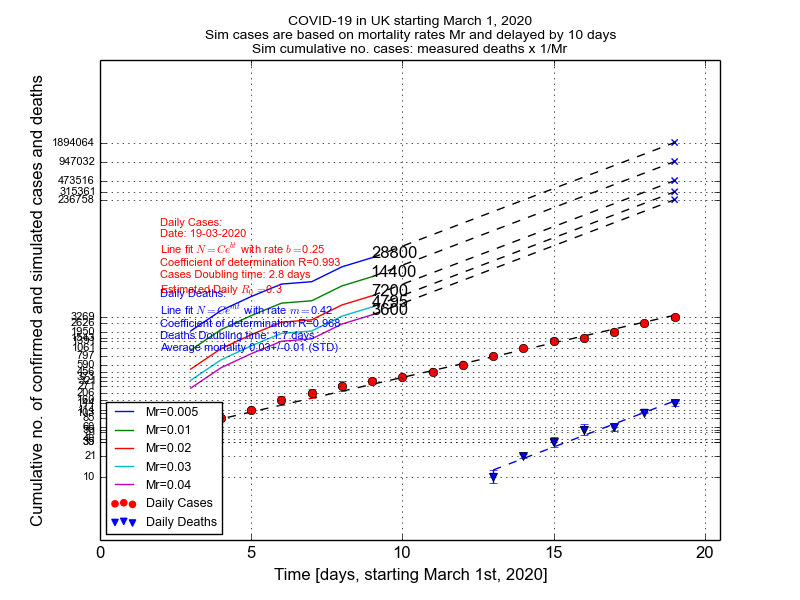
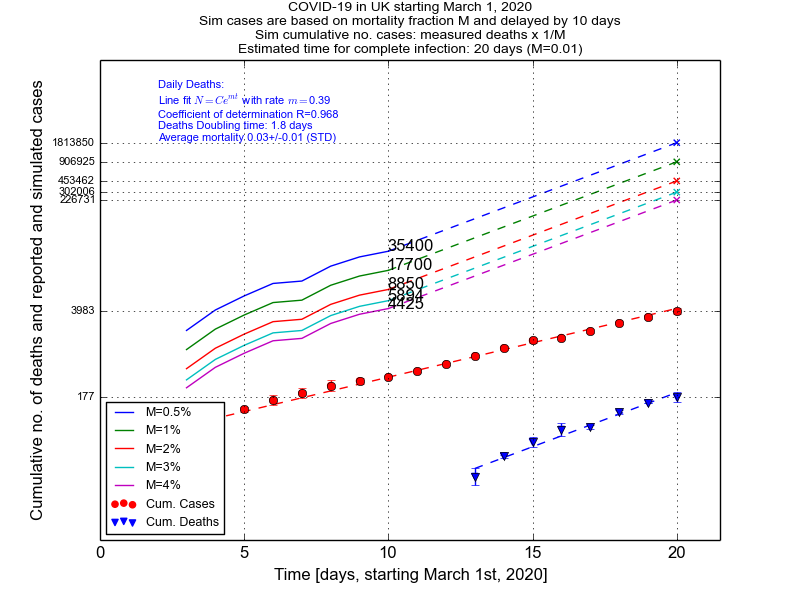
cleaned up the sims bit and added today data for UK

diff --git a/cov_lin_models.py b/cov_lin_models.py
@@ -281,6 +281,10 @@ def plot_official_uk_data(download):
     y_all_real.extend(y_deaths_real)
     y_all_real.extend(y_data_real)
     y_all = np.log(y_all_real)
+    last_tick_real = []
+    last_tick_real.append(y_deaths_real[-1])
+    last_tick_real.append(y_data_real[-1])
+    last_tick = np.log(last_tick_real)
 
     # all in one for sims
     y_sim_real = []
@@ -330,6 +334,8 @@ def plot_official_uk_data(download):
     sim_y_2_f = sim_y_2_real[-1] * np.exp(10. * slope_d)
     sim_y_3_f = sim_y_3_real[-1] * np.exp(10. * slope_d)
     sim_y_4_f = sim_y_4_real[-1] * np.exp(10. * slope_d)
+    # estimate time for 65M
+    full_time = (np.log(65 * 1e6) - np.log(sim_y_1_real[-1])) / slope_d
 
     # plot parameters: deaths
     plot_text_d = get_deaths_plot_text(
@@ -341,7 +347,7 @@ def plot_official_uk_data(download):
     # plotting cases
     plt.scatter(x_data, y_data, color='r',
                 label="Daily Cases")
-    plt.plot(x_data, poly_x, '--k')
+    plt.plot(x_data, poly_x, '--r')
     plt.scatter(x_deaths, y_deaths, marker='v',
                 color='b', label="Daily Deaths")
     plt.plot(x_deaths, poly_x_d, '--b')
@@ -361,46 +367,47 @@ def plot_official_uk_data(download):
 
     # plot simulated cases
     plt.scatter(x_data, y_data, color='r',
-                label="Daily Cases")
-    plt.plot(x_data, poly_x, '--k')
+                label="Cum. Cases")
+    plt.plot(x_data, poly_x, '--r')
     plt.scatter(x_deaths, y_deaths, marker='v',
-                color='b', label="Daily Deaths")
-    plt.scatter(x_deaths[-1], np.log(sim_y_0_f), marker='x')
-    plt.scatter(x_deaths[-1], np.log(sim_y_1_f), marker='x')
-    plt.scatter(x_deaths[-1], np.log(sim_y_2_f), marker='x')
-    plt.scatter(x_deaths[-1], np.log(sim_y_3_f), marker='x')
-    plt.scatter(x_deaths[-1], np.log(sim_y_4_f), marker='x')
-    plt.plot([list(np.array(x_deaths) - 10.)[-1], x_deaths[-1]], [sim_y_0[-1], np.log(sim_y_0_f)], '--k')
-    plt.plot([list(np.array(x_deaths) - 10.)[-1], x_deaths[-1]], [sim_y_1[-1], np.log(sim_y_1_f)], '--k')
-    plt.plot([list(np.array(x_deaths) - 10.)[-1], x_deaths[-1]], [sim_y_2[-1], np.log(sim_y_2_f)], '--k')
-    plt.plot([list(np.array(x_deaths) - 10.)[-1], x_deaths[-1]], [sim_y_3[-1], np.log(sim_y_3_f)], '--k')
-    plt.plot([list(np.array(x_deaths) - 10.)[-1], x_deaths[-1]], [sim_y_4[-1], np.log(sim_y_4_f)], '--k')
+                color='b', label="Cum. Deaths")
+    plt.scatter(x_deaths[-1], np.log(sim_y_0_f), marker='x', color='b')
+    plt.scatter(x_deaths[-1], np.log(sim_y_1_f), marker='x', color='g')
+    plt.scatter(x_deaths[-1], np.log(sim_y_2_f), marker='x', color='r')
+    plt.scatter(x_deaths[-1], np.log(sim_y_3_f), marker='x', color='c')
+    plt.scatter(x_deaths[-1], np.log(sim_y_4_f), marker='x', color='m')
+    plt.plot([list(np.array(x_deaths) - 10.)[-1], x_deaths[-1]], [sim_y_0[-1], np.log(sim_y_0_f)], '--b')
+    plt.plot([list(np.array(x_deaths) - 10.)[-1], x_deaths[-1]], [sim_y_1[-1], np.log(sim_y_1_f)], '--g')
+    plt.plot([list(np.array(x_deaths) - 10.)[-1], x_deaths[-1]], [sim_y_2[-1], np.log(sim_y_2_f)], '--r')
+    plt.plot([list(np.array(x_deaths) - 10.)[-1], x_deaths[-1]], [sim_y_3[-1], np.log(sim_y_3_f)], '--c')
+    plt.plot([list(np.array(x_deaths) - 10.)[-1], x_deaths[-1]], [sim_y_4[-1], np.log(sim_y_4_f)], '--m')
     plt.plot(x_deaths, poly_x_d, '--b')
     plt.errorbar(x_data, y_data, yerr=y_err, fmt='o', color='r')
     plt.errorbar(x_deaths, y_deaths, yerr=y_err_d, fmt='v', color='b')
-    plt.plot(np.array(x_deaths) - 10., sim_y_0, label="Mr=0.005")
-    plt.plot(np.array(x_deaths) - 10., sim_y_1, label="Mr=0.01")
-    plt.plot(np.array(x_deaths) - 10., sim_y_2, label="Mr=0.02")
-    plt.plot(np.array(x_deaths) - 10., sim_y_3, label="Mr=0.03")
-    plt.plot(np.array(x_deaths) - 10., sim_y_4, label="Mr=0.04")
+    plt.plot(np.array(x_deaths) - 10., sim_y_0, label="M=0.5%")
+    plt.plot(np.array(x_deaths) - 10., sim_y_1, label="M=1%")
+    plt.plot(np.array(x_deaths) - 10., sim_y_2, label="M=2%")
+    plt.plot(np.array(x_deaths) - 10., sim_y_3, label="M=3%")
+    plt.plot(np.array(x_deaths) - 10., sim_y_4, label="M=4%")
     plt.grid()
     plt.xlim(0., x_data[-1] + 1.5)
     plt.ylim(0., np.log(sim_y_0_f) + 3.)
-    plt.text(2., sim_y_4[-1] + 0.7, plot_text, fontsize=8, color="red")
-    plt.text(2., sim_y_4[-1] - 1.3, plot_text_d, fontsize=8, color="blue")
+    # plt.text(2., sim_y_4[-1] + 0.7, plot_text, fontsize=8, color="red")
+    plt.text(2., sim_y_0[-1] + 4., plot_text_d, fontsize=8, color="blue")
     plt.legend(loc="lower left", fontsize=9)
-    y_all = list(y_all)
-    y_all.append(np.log(sim_y_0_f))
-    y_all.append(np.log(sim_y_1_f))
-    y_all.append(np.log(sim_y_2_f))
-    y_all.append(np.log(sim_y_3_f))
-    y_all.append(np.log(sim_y_4_f))
-    y_all_real.append(sim_y_0_f)
-    y_all_real.append(sim_y_1_f)
-    y_all_real.append(sim_y_2_f)
-    y_all_real.append(sim_y_3_f)
-    y_all_real.append(sim_y_4_f)
-    plt.yticks(y_all, [np.int(y01) for y01 in y_all_real])
+    last_tick = list(last_tick)
+    last_tick.append(np.log(sim_y_0_f))
+    last_tick.append(np.log(sim_y_1_f))
+    last_tick.append(np.log(sim_y_2_f))
+    last_tick.append(np.log(sim_y_3_f))
+    last_tick.append(np.log(sim_y_4_f))
+    last_tick_real.append(sim_y_0_f)
+    last_tick_real.append(sim_y_1_f)
+    last_tick_real.append(sim_y_2_f)
+    last_tick_real.append(sim_y_3_f)
+    last_tick_real.append(sim_y_4_f)
+    # plt.yticks(y_all, [np.int(y01) for y01 in y_all_real])
+    plt.yticks(last_tick, [np.int(y01) for y01 in last_tick_real])
     plt.tick_params(axis="y", labelsize=8)
     plt.annotate(str(int(sim_y_4_real[-1])),xy=(x_deaths[-1]-10,sim_y_4[-1]))
     plt.annotate(str(int(sim_y_0_real[-1])),xy=(x_deaths[-1]-10,sim_y_0[-1]))
@@ -408,10 +415,11 @@ def plot_official_uk_data(download):
     plt.annotate(str(int(sim_y_2_real[-1])),xy=(x_deaths[-1]-10,sim_y_2[-1]))
     plt.annotate(str(int(sim_y_3_real[-1])),xy=(x_deaths[-1]-10,sim_y_3[-1]))
     plt.xlabel("Time [days, starting March 1st, 2020]")
-    plt.ylabel("Cumulative no. of confirmed and simulated cases and deaths")
+    plt.ylabel("Cumulative no. of deaths and reported and simulated cases")
     plt.title("COVID-19 in UK starting March 1, 2020\n" + \
-              "Sim cases are based on mortality rates Mr and delayed by 10 days\n" + \
-              "Sim cumulative no. cases: measured deaths x 1/Mr",
+              "Sim cases are based on mortality fraction M and delayed by 10 days\n" + \
+              "Sim cumulative no. cases: measured deaths x 1/M\n" + \
+              "Estimated time for complete infection: %i days (M=0.01)" % int(full_time),
               fontsize=10)
     plt.savefig(os.path.join("country_plots",
                              "COVID-19_LIN_UK-GOV_SIM_CASES.png"))

diff --git a/README.md b/README.md
@@ -19,6 +19,15 @@ United Kingdom (updated daily)
 time of about 3 days and a very high mortality, suggesting a combination of biased testing and
 much higher actual infection numbers.**
 
+![UKS](country_plots/COVID-19_LIN_UK-GOV_SIM_CASES.png)
+
+Simulating the actual number of infected individuals based on the number of recorded deaths and the
+exponential evolution of this number: numbers of deaths evolve exponentially with the rate `m` and we
+can use a set of possible mortality fractions `M` (M is defined as the number of deaths / number of
+actual cases at the time of the infection, assume average desease span of 10 days: from moment of infection
+to moment of death). we compute the simulated number of actual cases deaths x 1/M and shift in time by 10 days,
+then extrapolate via the exponential evolution of deaths to the current date.
+
 Spread in the UK: measured cases and deaths  |  Simulated actual cases
 :-------------------------------------------:|:-------------------------:
 ![UK](country_plots/COVID-19_LIN_UK-GOV.png) |  ![UKS](country_plots/COVID-19_LIN_UK-GOV_SIM_CASES.png)
